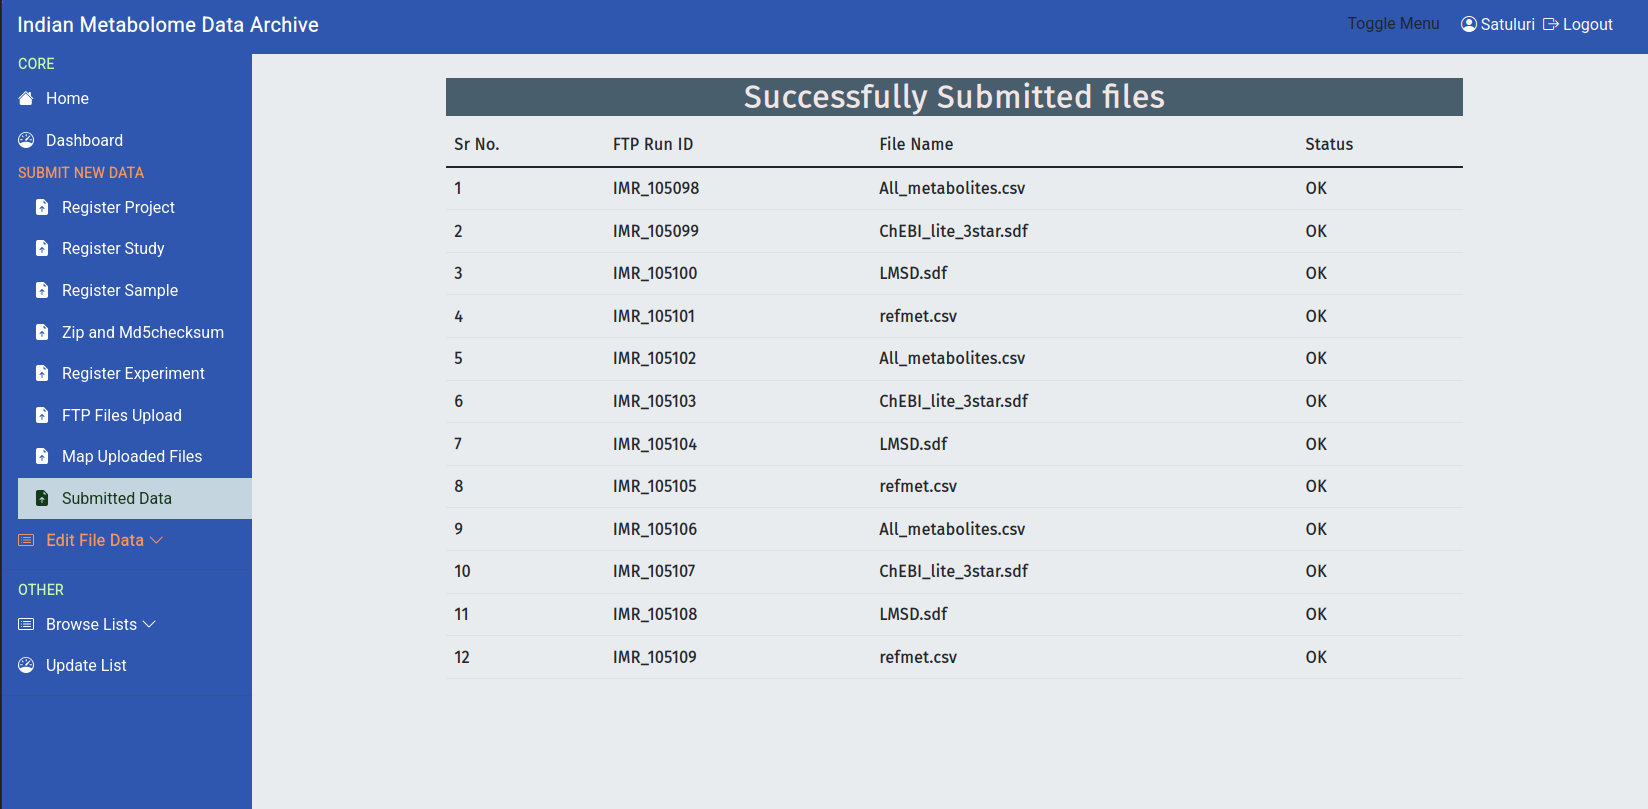
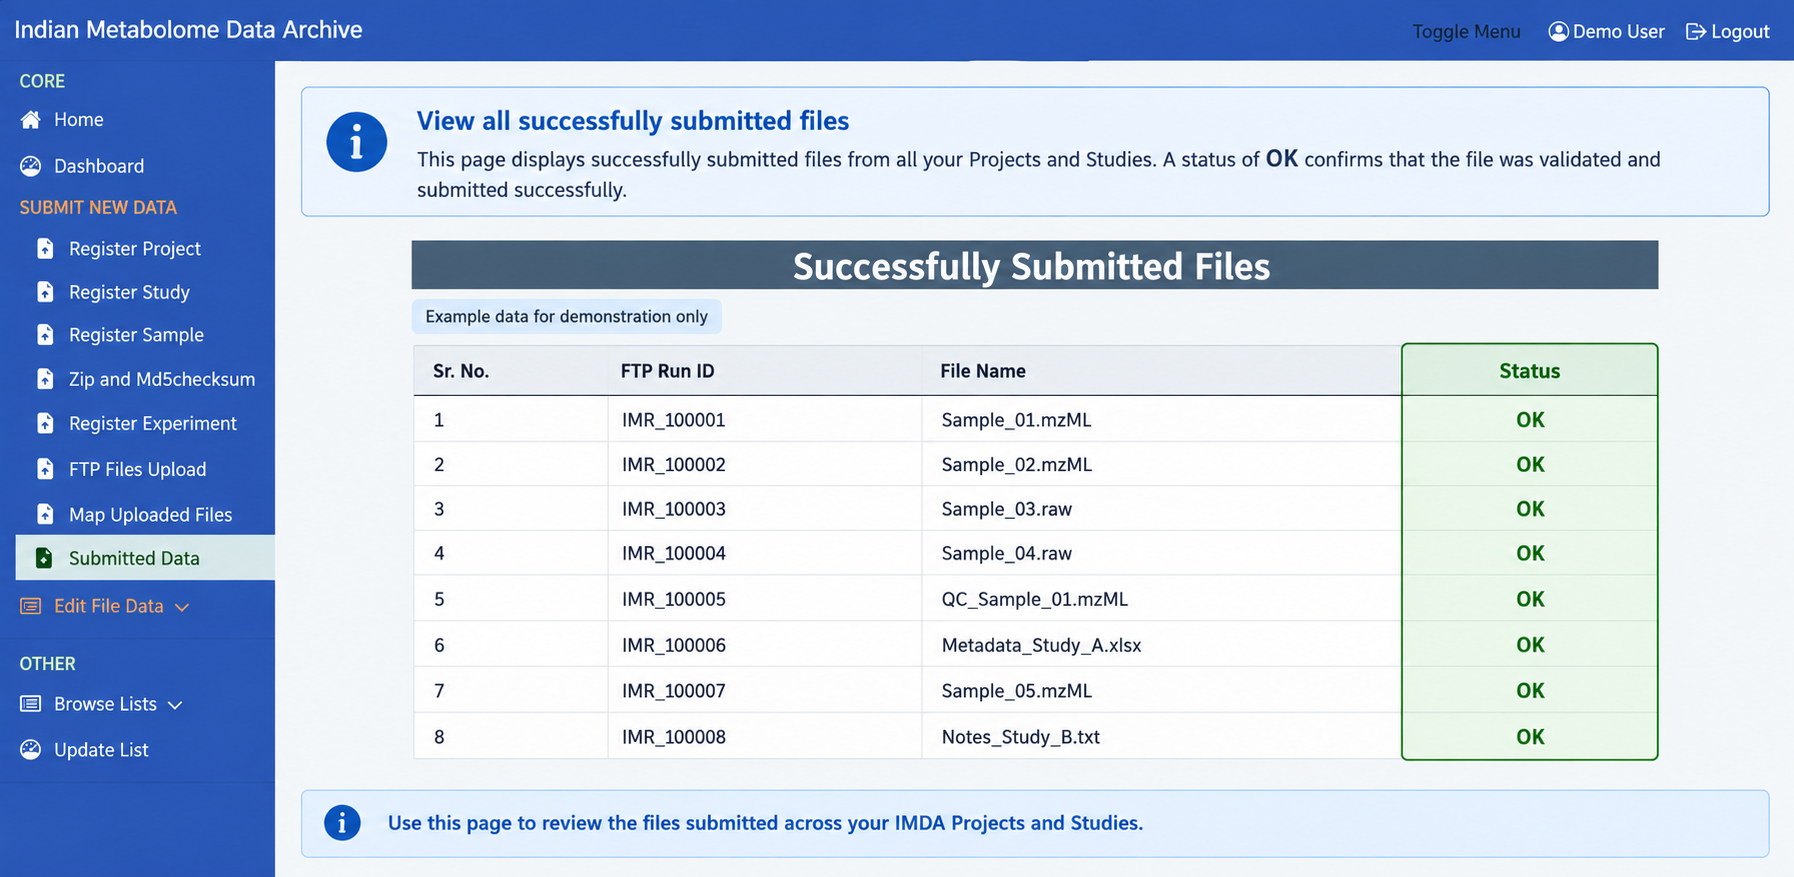
Deployed 31a47ad with MkDocs version: 1.6.1

diff --git a/submitted-data/index.html b/submitted-data/index.html
@@ -707,12 +707,14 @@
 
 <h1 id="submitted-data">Submitted Data</h1>
 <p>Use <strong>Submitted Data</strong> to check whether your study has been submitted, reviewed, corrected, or released.</p>
-<p><img alt="Submitted Data visual checklist showing project, study, status, edit, and support checks." src="../assets/img/submitted_data_step_guide.png" /></p>
+<p><img alt="IMDA Submitted Data page showing successfully submitted files and OK status." src="../assets/img/submitted_data.png" /></p>
 <h2 id="tracking-your-study">Tracking Your Study</h2>
 <ol>
-<li>Review the table for Project ID, Study ID, Study Title, and Date of Submission.</li>
-<li>Open the Study ID or row details to view full information and current status.</li>
-<li>Use the final <strong>IMP_xxxxxx</strong> and <strong>IMS_xxxxxx</strong> IDs for citation after release.</li>
+<li>Open <strong>Submitted Data</strong> from the IMDA sidebar.</li>
+<li>Review the table of submitted files for the selected project and study.</li>
+<li>Check the <strong>Status</strong> column for each file.</li>
+<li>A status of <strong>OK</strong> means the file was validated and submitted successfully.</li>
+<li>If any expected file is missing or does not show <strong>OK</strong>, return to <strong>Map Uploaded Files</strong> and validate again.</li>
 </ol>
 <table>
 <thead>
@@ -724,27 +726,26 @@
 </thead>
 <tbody>
 <tr>
-<td style="text-align: left;"><strong>Submitted</strong></td>
-<td style="text-align: left;">Your study has been submitted and is waiting for IMDA review.</td>
-<td style="text-align: left;">No action unless IMDA contacts you.</td>
+<td style="text-align: left;"><strong>OK</strong></td>
+<td style="text-align: left;">File was validated and submitted successfully.</td>
+<td style="text-align: left;">No action needed for that file.</td>
 </tr>
 <tr>
-<td style="text-align: left;"><strong>In Review</strong></td>
-<td style="text-align: left;">IMDA team is checking your study details and files.</td>
-<td style="text-align: left;">Check registered email frequently.</td>
+<td style="text-align: left;"><strong>Unmapped</strong></td>
+<td style="text-align: left;">File is uploaded but not fully mapped or validated.</td>
+<td style="text-align: left;">Go back to <strong>Map Uploaded Files</strong>, check file names and mapping, then validate again.</td>
 </tr>
 <tr>
-<td style="text-align: left;"><strong>Public</strong></td>
-<td style="text-align: left;">Study is released for download.</td>
-<td style="text-align: left;">Cite the final project and study IDs.</td>
+<td style="text-align: left;"><strong>Missing file</strong></td>
+<td style="text-align: left;">Expected file is not visible in Submitted Data.</td>
+<td style="text-align: left;">Check the FTP upload folder and upload the file again if needed.</td>
 </tr>
 </tbody>
 </table>
 <div class="admonition info">
 <p class="admonition-title">After Submission</p>
-<p>IMDA reviews submissions after the final submit/check step. Check the registered email for any correction request.</p>
+<p>Use this page to review files submitted across your IMDA projects and studies. IMDA may contact the registered email if any correction is required.</p>
 </div>
-<p><img alt="IMDA Submitted Data page showing successfully submitted files and OK status." src="../assets/img/submitted_data.png" /></p>
 <h2 id="corrections-after-submission">Corrections After Submission</h2>
 <p>Use <strong>Edit File Data</strong> only when study details or uploaded files need correction before final submit/check, or when IMDA asks for a correction.</p>
 <table>
